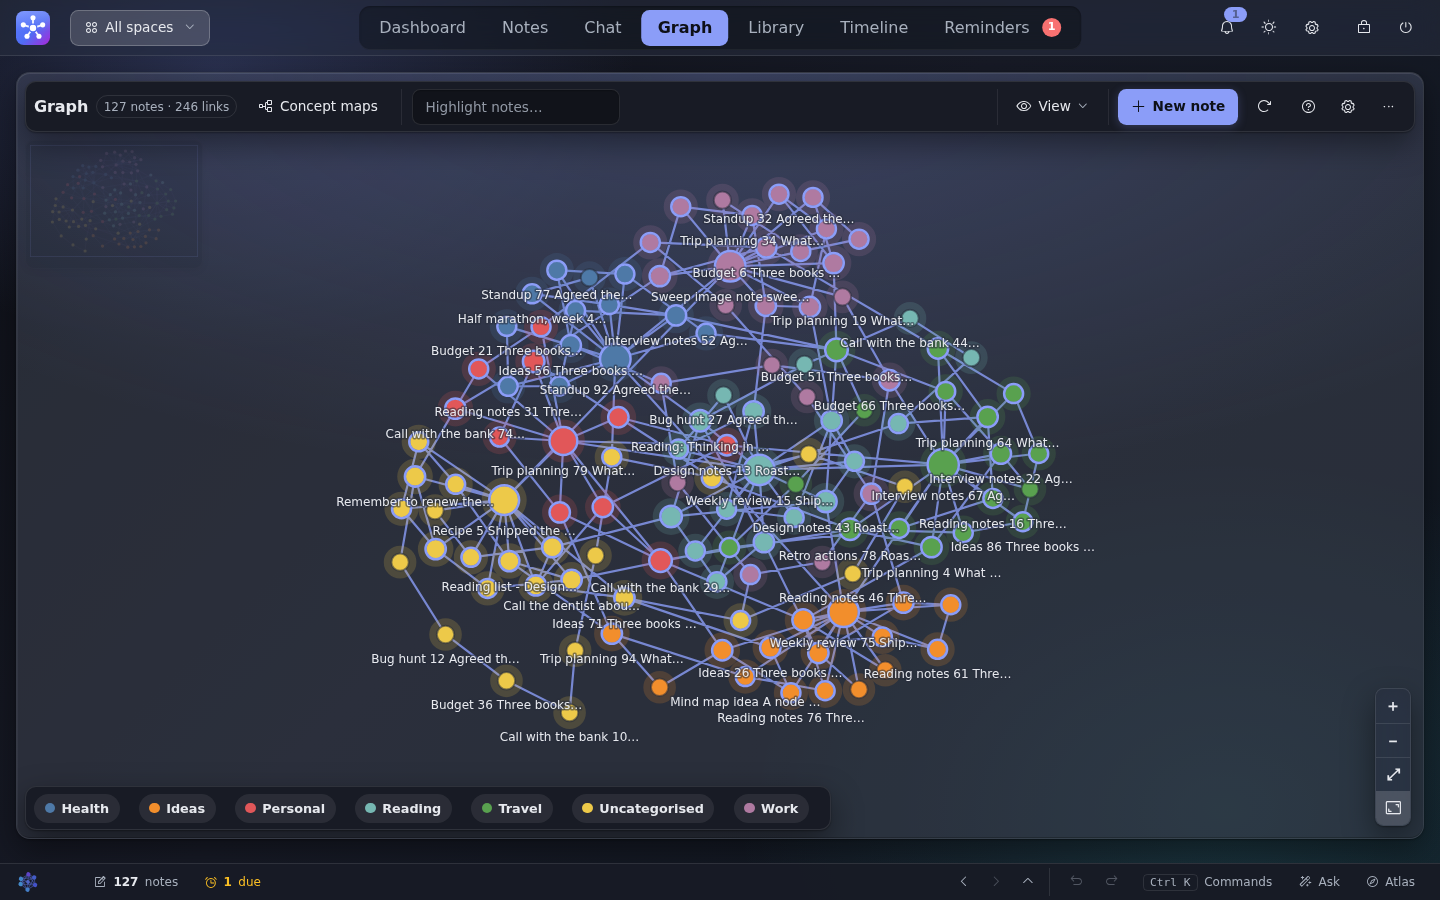
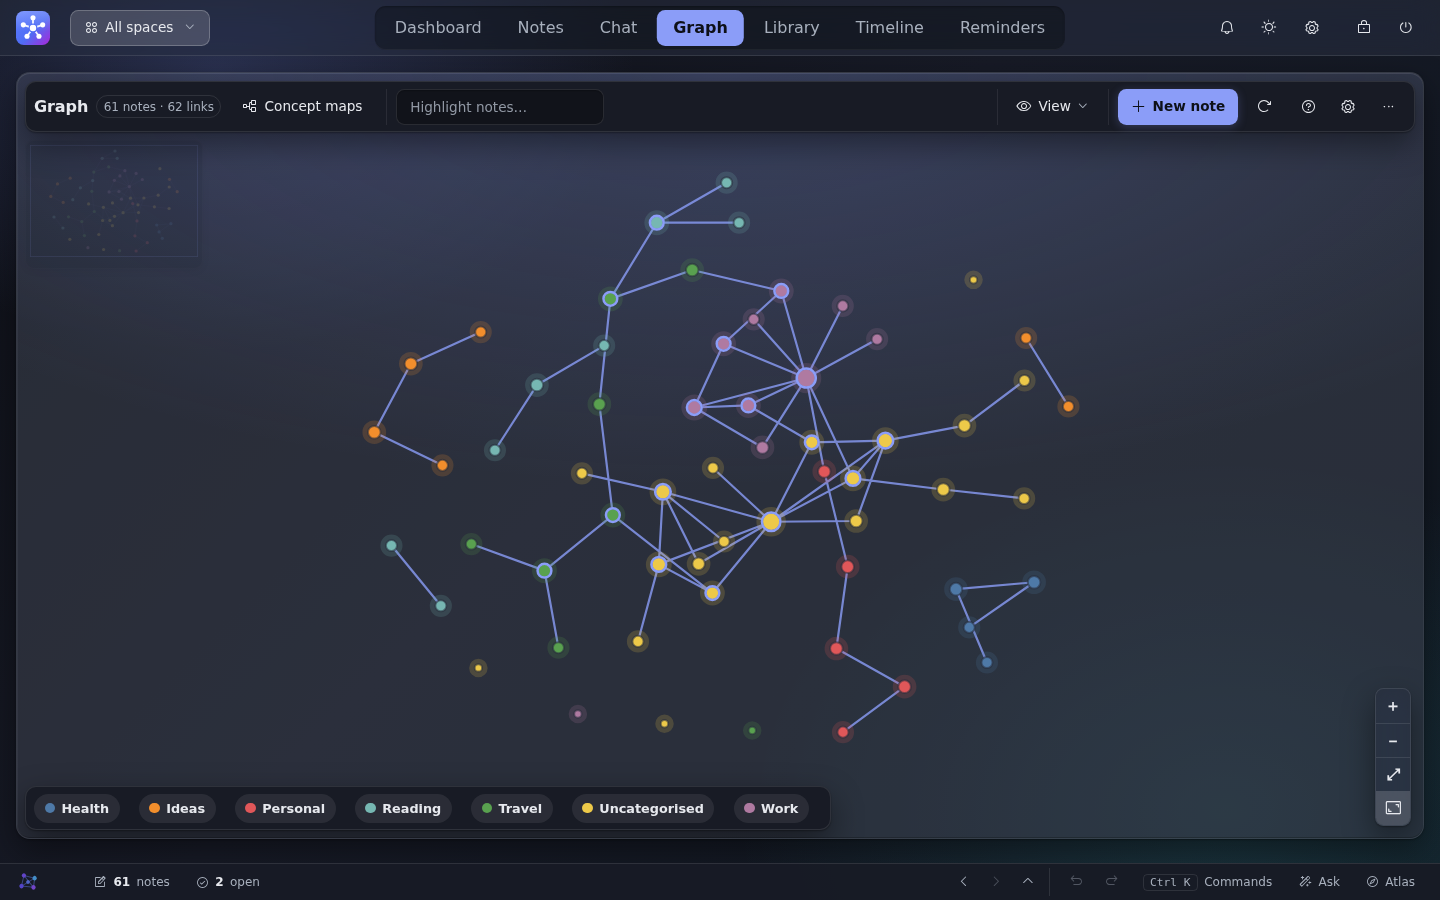
The README graph as a constellation: 61 notes, 62 links, labels off, more air
Claude-Session: https://claude.ai/code/session_01TDrFtNMQzyhymKfCS5reYn

diff --git a/scratchpad/ui-sweeps/seed-graph-links.js b/scratchpad/ui-sweeps/seed-graph-links.js
@@ -8,6 +8,7 @@
 const { boot } = require('./lib.js');
 (async () => {
   const { browser, page } = await boot();
+  await page.evaluate((v) => { window.__SPARSE = v; }, !!process.env.SPARSE);
   const out = await page.evaluate(async () => {
     const list = await apiPagedList('/entries', 200);
     const notes = list.filter((e) => e && e.id && !e.is_draft);
@@ -25,17 +26,32 @@ const { boot } = require('./lib.js');
     let seed = 7;
     const rnd = () => (seed = (seed * 16807) % 2147483647) / 2147483647;
     const hubs = [];
+    //: SPARSE=1: the artistic version for the README (the owner: "not all
+    //: notes have to be linked, make it artistic"): each category is a
+    //: loose tree, one note in three stays unlinked, two hubs, six bridges.
+    const sparse = window.__SPARSE;
     for (const [cat, group] of Object.entries(byCat)) {
+      if (sparse) {
+        for (let i = 1; i < group.length; i++) {
+          if (rnd() < 0.33) continue;
+          add(group[i], group[Math.floor(rnd() * i)], `Both filed under ${cat}`);
+        }
+        continue;
+      }
       for (let i = 0; i < group.length; i++) add(group[i], group[(i + 1) % group.length], `Both filed under ${cat}`);
       const hub = group[Math.floor(rnd() * group.length)];
       hubs.push(hub);
       for (const other of group.slice(0, 14)) add(hub, other, `${hub.title || 'This note'} is the one the others in ${cat} come back to`);
     }
-    for (let i = 0; i < 40; i++) {
+    if (sparse) {
+      const big = Object.values(byCat).sort((a, b) => b.length - a.length).slice(0, 2);
+      for (const group of big) { const hub = group[0]; hubs.push(hub); for (const other of group.slice(1, 9)) add(hub, other, `${hub.title || 'This note'} is where the ${group[0].category || 'notes'} thread starts`); }
+    }
+    for (let i = 0; i < (sparse ? 6 : 40); i++) {
       const a = notes[Math.floor(rnd() * notes.length)], b = notes[Math.floor(rnd() * notes.length)];
       add(a, b, 'Mentions the same people and dates');
     }
-    for (let i = 0; i < hubs.length; i++) add(hubs[i], hubs[(i + 1) % hubs.length], 'Two threads that keep meeting');
+    if (!sparse) for (let i = 0; i < hubs.length; i++) add(hubs[i], hubs[(i + 1) % hubs.length], 'Two threads that keep meeting');
     let ok = 0, fail = 0;
     for (const [sid, tid, reason] of wanted) {
       const r = await api(`/entries/${sid}/links`, { method: 'POST', body: JSON.stringify({ target_id: tid, reason }) }).catch(() => null);

diff --git a/scratchpad/ui-sweeps/readmeshots.js b/scratchpad/ui-sweeps/readmeshots.js
@@ -42,7 +42,7 @@ const SHOTS = [
 (async () => {
   const browser = await chromium.launch();
   const ctx = await browser.newContext({ viewport: { width: 1440, height: 900 }, deviceScaleFactor: 1 });
-  await ctx.addInitScript(() => {
+  await ctx.addInitScript(({ gravity, spread }) => {
     try {
       localStorage.setItem('theme', 'light');
       localStorage.setItem('onboardingDone', '1');
@@ -53,10 +53,10 @@ const SHOTS = [
       //: reader can see the shape of. Both are ordinary settings a person can
       //: reach from the graph's own controls, not a state only a script can
       //: produce.
-      localStorage.setItem('graph-gravity', '85');
-      localStorage.setItem('graph-spread', '35');
+      localStorage.setItem('graph-gravity', gravity);
+      localStorage.setItem('graph-spread', spread);
     } catch (e) {}
-  });
+  }, { gravity: process.env.GRAPH_GRAVITY || '85', spread: process.env.GRAPH_SPREAD || '35' });
   const page = await ctx.newPage();
   await page.goto(BASE + '/', { waitUntil: 'domcontentloaded' });
   await page.waitForSelector('#lock-password', { state: 'visible', timeout: 20000 });
@@ -140,6 +140,12 @@ const SHOTS = [
       //: their first evening with it, and nothing in the old set showed that
       //: any of it existed.
       await page.evaluate(() => openSettingsModal('appearance'));
+      await page.waitForTimeout(2500);
+    }
+    if (shot.file === 'graph' && process.env.GRAPH_LABELS === 'off') {
+      //: The map as a constellation: labels off is the graph's own View
+      //: setting, and with them off the shape of the notebook is the picture.
+      await page.evaluate(() => { const box = document.getElementById('graph-labels'); if (box && box.checked) { box.checked = false; box.dispatchEvent(new Event('change', { bubbles: true })); } });
       await page.waitForTimeout(2500);
     }
     if (shot.sub === 'ocr') {
